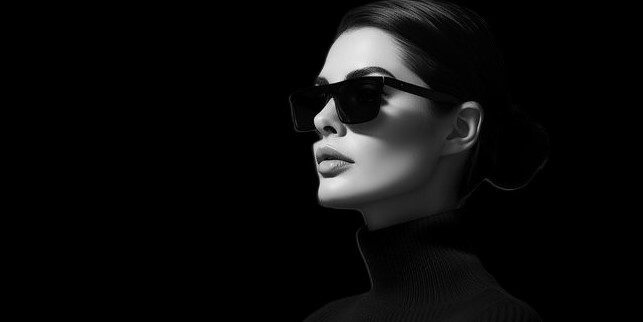
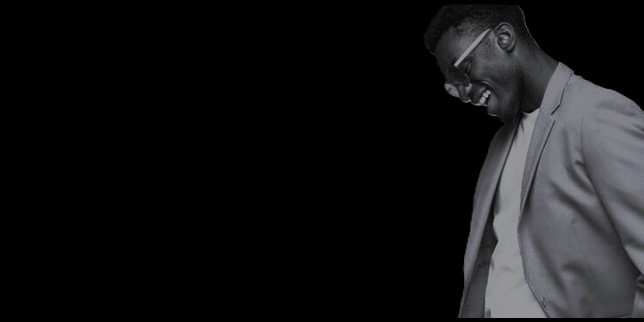
Responsively updated

diff --git a/style.css b/style.css
@@ -102,7 +102,7 @@ body{
     margin: 2px auto;
     box-shadow: rgba(99, 99, 99, 0.2) 0px 2px 8px 0px;
     position: relative;
-    background: url("images/bnr2.jpg") center/cover;
+    background: url("images/bnr1.jpg") center/cover;
     transition: background 1s ease-in-out;
     z-index: 1;
     margin-top: 20px;
@@ -132,14 +132,14 @@ body{
     cursor: pointer;
 }
 .btn-left{
-    color: white;   
+    color: rgb(98, 98, 98);   
     position: absolute;
     top: 45%;
     cursor: pointer;
     z-index: 1;
 }
 .btn-right{
-    color: white;   
+    color: rgb(98, 98, 98);   
     position: absolute;
     right: 0;
     top: 45%;
@@ -576,7 +576,7 @@ body{
 @media screen and (max-width:600px) {
 /* header */
     .header{
-        font-size: 16px;
+        font-size: 10px;
     }
 /* navbar */    
     .navbar{
@@ -645,18 +645,18 @@ body{
         gap: 20px;
     }
     .brands img{
-        width: 50px;
-        height: 25px;
+        width: 30px;
+        height: 15px;
     }
 /* assurance */    
     .assurance{
         margin-top: 20px;
     }
     .assurance h1{
-        font-size: small;
+        font-size: xx-small;
     }
     .assurance p{
-        font-size: small;
+        font-size: xx-small;
         text-align: right;
     }
 /* promise */
@@ -665,7 +665,7 @@ body{
         margin-top: 20px;
      }
      .promise h3{
-        font-size: x-small;
+        font-size: xx-small;
      }
      .promise p{
         font-size: xx-small;
@@ -693,6 +693,9 @@ body{
         padding: 20px;
         margin-top: 20px;
     }
+    .newarrival h1{
+        font-size: 22px;
+    }
     .container1{
         width: 100%;
         display: flex;
@@ -708,23 +711,23 @@ body{
     .newarr1 button,.newarr2 button,.newarr3 button,.newarr4 button{
         position: absolute;
         background-color: rgb(207, 207, 207);
-        left: 35px;
-        top: 45px;
-        width: 40px;
-        height: 20px;
+        left: 20px;
+        top: 35px;
+        width: 30px;
+        height: 15px;
         z-index: 1;
         border-radius: 2px;
         cursor: pointer;
         border: none;
-        font-size: x-small;
+        font-size: 8px;
     }
     .newarr1 img,.newarr2 img,.newarr3 img,.newarr4 img {
         width: 100%;
         height: 100%;
         display: block;
         border-radius: 5px;
-        width: 87px;
-        height: 90px;
+        width: 50px;
+        height: 70px;
     }
     
     .newarr1::after,.newarr2::after,.newarr3::after,.newarr4::after {
@@ -734,13 +737,16 @@ body{
     .mostwanted{
         margin-top: 20px;
     }
+    .mostwanted h1{
+        font-size: 22px;
+    }
     .container2{
         padding-left: 2px;
         padding-right: 2px;
         display: flex;
         flex-direction: row;
         width: 100%;
-        height: 170px;
+        height: 150px;
         gap: 15px;
         margin: 2px auto;
         overflow-x: auto;
@@ -748,16 +754,16 @@ body{
     .most1{
         border: 1px solid rgb(228, 228, 228);
         border-radius: 10px;
-        width: 120px;
-        height: 120px;
+        width: 100px;
+        height: 100px;
         box-shadow: rgba(99, 99, 99, 0.2) 0px 2px 8px 0px;
         position: relative;
         margin-top: 30px;
         
     }
     .most1 img{
-        width: 120px;
-        height: 120px;
+        width: 100px;
+        height: 100px;
         border-radius: 10px;
     }
     
@@ -785,24 +791,26 @@ body{
     }
     .offer img{
         position: absolute;
-        top: 20px;
+        top: 40px;
         left: 10px;
-        width: 200px;
+        width: 150px;
     }
     .offertag{
         position: absolute;
         top: 70px;
         right: 10px;
-        font-size: x-small;
+        font-size: xx-small;
         color: white;
+        width: 120px;
     }
     .offer button{
-        width: 80px;
-        height: 20px;
-        font-size: x-small;
+        width: 60px;
+        height: 15px;
+        font-size: xx-small;
         border-radius: 3px;
         outline: none;
         border: none;
+        margin-top: 5px;
     }
 /* newsltr */
     .newsltr{
@@ -811,13 +819,13 @@ body{
         gap: 10px;
     }
     #newshead{
-        font-size: 26px;
+        font-size: 20px;
     }
     .newspar{
-        font-size: 12px;
+        font-size: 8px;
     }
     .newsltr input{
-        width: 400px;
+        width: 300px;
         height: 5px;
         border: 2px solid black;
         padding: 10px;
@@ -849,10 +857,10 @@ body{
         margin-top: 30px;
     }
     .footer h1{
-        font-size: 24px;
+        font-size: 22px;
     }
     .footer p{
-        font-size: 16px;
+        font-size: 10px;
     }
     .icons{
         display: flex;
@@ -860,16 +868,20 @@ body{
         gap: 20px;
     }
     #icon {
-        font-size: 24px;
+        font-size: 16px;
     }
 /* filter section */
    .collections{
     padding: 20px;
     display: flex;
-    flex-direction: row;
+    flex-direction: column;
     }
     .fltrsection{
-    width: 200px;
+    width: fill;
+    }
+    .filters{
+        display: flex;
+        flex-direction: row;
     }
     .filters h3{
     font-size: 24px;
@@ -886,6 +898,7 @@ input[type="checkbox"] {
 }
 .vertical-line{
     height: 520px;
+    display: none;
 }
 /* dresscollection */
 
@@ -935,9 +948,9 @@ input[type="checkbox"] {
 .frmcontainer{
     background-color: black;
     color: white;
-    width: 410px;
+    width: 275px;
     margin-left: 0;
-    height: 410px;
+    height: 360px;
     border-radius: 20px;
     padding: 20px;
     display: flex;
@@ -952,16 +965,16 @@ input[type="checkbox"] {
     font-size: 16px;
 }
 .frmcontainer input{
-    width: 400px;
-    height: 30px;
+    width: 265px;
+    height: 25px;
     border-radius: 5px;
     border: none;
     outline: none;
     padding-left: 10px;
 }
 .frmcontainer textarea{
-    width: 400px;
-    height: 80px;
+    width: 265px;
+    height: 50px;
     border-radius: 5px;
     padding-left: 10px;
     padding-top: 10px;

diff --git a/index.html b/index.html
@@ -207,7 +207,7 @@
 <div class="ltdoffer">
   <div class="offer">
     <div>
-        <img src="./images/ltdoffer.jpg" alt="">
+        <img src="./images/offr.jpg" alt="">
     </div>
     <div class="offertag">
         <h1>Limitted Offer</h1>

diff --git a/script.js b/script.js
@@ -2,7 +2,7 @@
 
 const container = document.querySelector(".container")
 const btns = document.querySelectorAll(".btn")
-const imagelist = ["bnr2","bnr1","bnr3"]
+const imagelist = ["bnr1","bnr2"]
 
 let index = 0;
 
